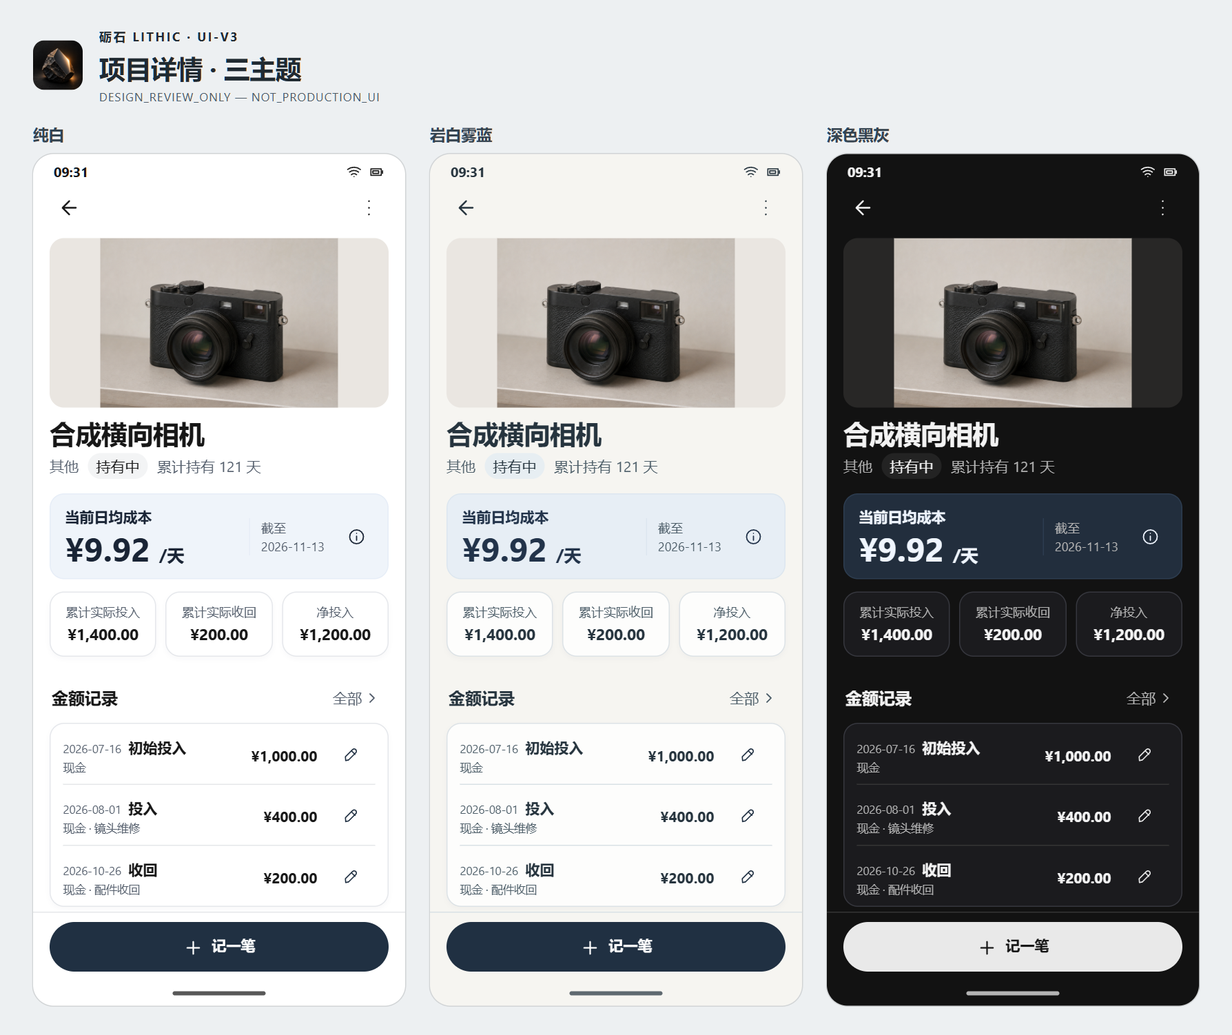
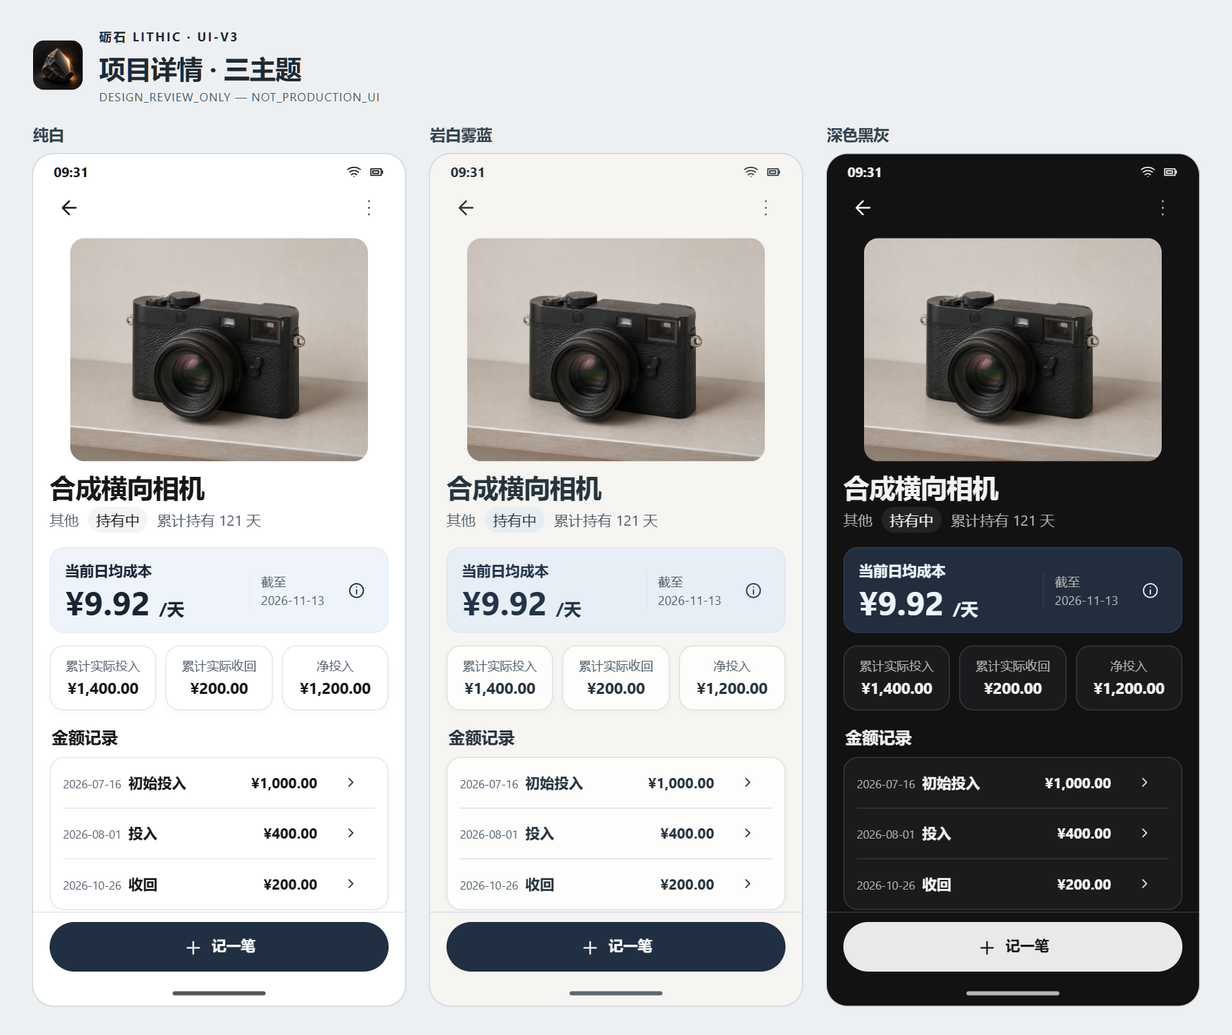
docs(design): close LITHIC detail design review notes

diff --git a/docs/design/lithic-ui-v3-detail-visual-refinement-02/boards/detail.js b/docs/design/lithic-ui-v3-detail-visual-refinement-02/boards/detail.js
@@ -10,7 +10,6 @@ const glyphs = {
   broken: 'M14 20H3V4h18v6M3 15l5-5 4 4m6-3 5 9H13zm0 4v2m0 2h.01',
   add: 'M12 5v14M5 12h14',
   chevron: 'M9 6l6 6-6 6',
-  edit: 'M13.5 5.5l5 5M4 20l4.5-1 11-11a2 2 0 0 0-5-5l-11 11L4 20Z',
 };
 const icon = name => '<svg aria-hidden="true" viewBox="0 0 24 24"><path d="' + glyphs[name] + '"/></svg>';
 const iconButton = (name, label) => '<button class="icon-button" aria-label="' + label + '">' + icon(name) + '</button>';
@@ -36,7 +35,7 @@ const photoCopy = {
   broken: ['broken', '封面暂不可用'],
 };
 function cover(status) {
-  if (status === 'normal') return '<div class="cover">' + camera + '</div>';
+  if (status === 'normal') return '<button class="cover cover-ready" data-cover-preview aria-label="查看完整封面">' + camera + '</button>';
   const [shape, label] = photoCopy[status];
   return '<div class="cover' + (status === 'empty' ? ' compact' : '') + '"><span class="placeholder">' +
     icon(shape) + (label ? '<span class="small">' + label + '</span>' : '') + '</span></div>';
@@ -56,14 +55,20 @@ function fact(label, value) {
   return '<div class="fact"><span class="muted">' + label + '</span>' + cash(value) + '</div>';
 }
 function event(when, label, value, detail, action) {
-  return '<article class="record"><div class="record-title"><div><span class="date">' + date(when) +
-    '</span><b>' + label + '</b><p class="muted small">' + detail + '</p></div>' +
-    cash(value) + (action ? '<button class="icon-button row-control" aria-label="' + action + ' · ' + when + '">' +
-      icon('edit') + '</button>' : '') + '</div></article>';
+  const basis = detail.startsWith('非现金折抵') ? '非现金折抵' : '现金';
+  const note = detail === basis ? '' : detail.slice(basis.length + 3);
+  const content = '<p>发生日期 ' + date(when) + '</p><p>' + label + '</p>' +
+    cash(value) + '<p>' + basis + '</p>' + (note ? '<p>' + note + '</p>' : '') +
+    '<div class="preview-actions"><span>' + action + '</span></div>';
+  return '<article class="record project-record"><div class="record-title"><div><span class="date">' + date(when) +
+    '</span><b>' + label + '</b>' + (basis === '非现金折抵' ? '<p class="muted small">' + basis + '</p>' : '') +
+    '</div>' + cash(value) + '<button class="icon-button row-control" data-event-details aria-label="查看金额记录与操作 · ' +
+    when + ' · ' + label + '">' + icon('chevron') + '</button><template>' + content + '</template></div></article>';
 }
-function recordsCard(title, records, showAll = false) {
-  const all = showAll ? '<button class="record-all" data-all-records aria-label="查看全部金额记录">全部' +
-    icon('chevron') + '</button>' : '';
+function recordsCard(title, records, {expandable = false, expanded = false} = {}) {
+  const all = expandable ? '<button class="record-all" data-all-records aria-expanded="' + expanded +
+    '" aria-label="' + (expanded ? '收起金额记录' : '查看全部金额记录') + '">' +
+    (expanded ? '收起' : '全部') + icon('chevron') + '</button>' : '';
   return '<section class="record-group"><div class="record-heading"><h3>' + title + '</h3>' +
     all + '</div><div class="group-card">' + records + '</div></section>';
 }
@@ -78,15 +83,20 @@ function project(options) {
     state(ended ? '已结束' : '持有中') + '<span>累计持有 ' + days + '</span></p>' +
     (photo === 'empty' && !read ? '<div class="media-actions">' + btn('添加照片') + '</div>' :
       mediaActions ? '<div class="media-actions">' + btn('更换照片') + btn('取消封面显示') + '</div>' : '') + '</section>';
-  let records = '';
-  if (empty) records = '<p class="muted">没有金额记录</p>';
-  else if (zero) records = event('2026-07-16', '初始投入', '0.00', '现金', '纠正这条记录');
-  else if (long) records = event('2026-11-13', '初始投入', '9,999,999,999.99', '现金', '纠正这条记录');
-  else records = event('2026-07-16', '初始投入', linked ? '700.00' : '1,000.00', '现金', linked ? '修改关联说明' : '纠正这条记录') +
-    (linked ? event('2026-07-16', '投入', '300.00', '非现金折抵 · 以旧换新关联事实，金额和日期不能单独修改。', '修改关联说明') : '') +
-    event('2026-08-01', '投入', '400.00', '现金 · 镜头维修', '纠正这条记录') +
-    event('2026-10-26', '收回', negative ? '1,800.00' : '200.00', '现金 · 配件收回', '纠正这条记录') +
-    (ended ? event('2026-11-10', '收回', '250.00', '现金 · 结束后实际结算', '纠正这条记录') : '');
+  const rows = [];
+  if (zero) rows.push(event('2026-07-16', '初始投入', '0.00', '现金', '纠正这条记录'));
+  else if (long) rows.push(event('2026-11-13', '初始投入', '9,999,999,999.99', '现金', '纠正这条记录'));
+  else if (!empty) {
+    rows.push(event('2026-07-16', '初始投入', linked ? '700.00' : '1,000.00', '现金', linked ? '修改关联说明' : '纠正这条记录'));
+    if (linked) rows.push(event('2026-07-16', '投入', '300.00', '非现金折抵 · 以旧换新关联事实，金额和日期不能单独修改。', '修改关联说明'));
+    rows.push(event('2026-08-01', '投入', '400.00', '现金 · 镜头维修', '纠正这条记录'),
+      event('2026-10-26', '收回', negative ? '1,800.00' : '200.00', '现金 · 配件收回', '纠正这条记录'));
+    if (ended) rows.push(event('2026-11-10', '收回', '250.00', '现金 · 结束后实际结算', '纠正这条记录'));
+  }
+  const limit = 3;
+  const expanded = options.expanded === true;
+  const records = rows.map((row, index) => index < limit ? row : row.replace('<article ', '<article data-extra-record ' +
+    (expanded ? '' : 'hidden '))).join('') || '<p class="muted">没有金额记录</p>';
   return (read === 'stale' ? notice('暂时无法刷新', '以下为上次读取记录。', true) : '') + identity +
     hero(ended ? '截至观察日的日均成本' : '当前日均成本', shownRate,
       empty ? '' : '结果截至 ' + visibleDate, options) +
@@ -95,7 +105,7 @@ function project(options) {
       fact(linked ? '累计投入（含非现金折抵）' : '累计实际投入', long ? '9,999,999,999.99' : zero ? '0.00' : '1,400.00') +
       fact(linked ? '累计收回（含非现金折抵）' : '累计实际收回', long ? '0.00' : ended ? '450.00' : negative ? '1,800.00' : zero ? '0.00' : '200.00') +
       fact('净投入', long ? '9,999,999,999.99' : ended ? '950.00' : negative ? '−400.00' : zero ? '0.00' : '1,200.00') + '</div>')) +
-    recordsCard('金额记录', records, !empty) +
+    recordsCard('金额记录', records, {expandable: rows.length > limit, expanded}) +
     sec('资料与历史', line('开始拥有', date(long ? '2026-11-13' : '2026-07-16')) +
       (ended ? line('已记录结束日期', date('2026-11-02')) + line('结束原因', '转交闲置设备') : '') +
       (linked ? '<p class="muted">有关联换新，金额与日期不能单独修改。</p>' : '') + btn('查看成本历史'));
@@ -158,13 +168,13 @@ const s = (label, props = {}) => ({label, entity: 'subscription', ...props});
 const pair = (width, scale) => [p('项目 · ' + width + 'dp · ' + scale * 100 + '%', {width, scale}), s('订阅 · ' + width + 'dp · ' + scale * 100 + '%', {width, scale})];
 const themes = [['纯白', 'white'], ['岩白雾蓝', 'stone'], ['深色黑灰', 'dark']];
 const boards = {
-  pair: ['项目与订阅 · 纯白详情', 2, pair(360, 1)],
+  pair: ['项目与订阅 · 最终纯白候选', 2, pair(360, 1)],
   'project-themes': ['项目详情 · 三主题', 3, themes.map(([label, theme]) => p(label, {theme}))],
   'subscription-themes': ['订阅详情 · 三主题', 3, themes.map(([label, theme]) => s(label, {theme}))],
   'width-400': ['400dp · 常规字号', 2, pair(400, 1)],
   'font-200': ['200% 字体 · 360 与 400', 4, [...pair(360, 2), ...pair(400, 2)]],
-  'history': ['记录与付款事实 · 向下滚动', 2, [p('项目 · 折抵与纠错', {linked: true, pos: 480}),
-    s('订阅 · 付款与实付汇总', {pos: 430})]],
+  'history': ['同一金额列表 · 展开前后', 2, [p('超过三笔 · 默认预览', {linked: true, pos: 560}),
+    p('点「全部」 · 就地展开', {linked: true, expanded: true, pos: 560})]],
   'states': ['关键状态', 3, [p('项目 · 封面不可用', {photo: 'broken'}), p('项目 · 旧快照', {read: 'stale', photo: 'empty'}),
     s('订阅 · 已停止', {ended: true}), p('项目 · 长名称与大金额', {long: true, scale: 2, photo: 'empty', pos: 60}),
     s('订阅 · 付款历史旧页', {historyStale: true, pos: 400}), s('订阅 · 长名称与大金额', {long: true, scale: 2, pos: 20}), s('订阅 · 无快照', {read: 'failed'})]],
@@ -189,20 +199,24 @@ modal.className = 'preview-dialog';
 modal.setAttribute('aria-labelledby', 'preview-title');
 root.append(modal);
 root.addEventListener('click', event => {
-  const trigger = event.target.closest('button[data-payment-details], button[data-all-records]');
+  const trigger = event.target.closest('button[data-payment-details], button[data-all-records], button[data-event-details], button[data-cover-preview]');
   if (!trigger) return;
-  const all = trigger.hasAttribute('data-all-records');
-  const source = all ? trigger.closest('.record-group').querySelector('.group-card') : trigger.nextElementSibling;
-  const content = all ? source.cloneNode(true) : source.content.cloneNode(true);
-  if (all) {
-    content.className = 'all-record-list';
-    content.querySelectorAll('button').forEach(button => button.remove());
+  if (trigger.hasAttribute('data-all-records')) {
+    const expanded = trigger.getAttribute('aria-expanded') !== 'true';
+    trigger.closest('.record-group').querySelectorAll('[data-extra-record]').forEach(row => { row.hidden = !expanded; });
+    trigger.setAttribute('aria-expanded', String(expanded));
+    trigger.setAttribute('aria-label', expanded ? '收起金额记录' : '查看全部金额记录');
+    trigger.firstChild.nodeValue = expanded ? '收起' : '全部';
+    return;
   }
+  const photo = trigger.hasAttribute('data-cover-preview');
+  const content = photo ? trigger.querySelector('img').cloneNode(true) : trigger.nextElementSibling.content.cloneNode(true);
+  modal.classList.toggle('photo-view', photo);
   const frameStyle = getComputedStyle(trigger.closest('.screen'));
   for (const property of ['--bg', '--ink', '--secondary', '--card-line', '--danger', '--scale']) {
     modal.style.setProperty(property, frameStyle.getPropertyValue(property));
   }
-  modal.innerHTML = '<h2 id="preview-title">' + (all ? '全部金额记录' : '付款详情') +
+  modal.innerHTML = '<h2 id="preview-title">' + (photo ? '完整封面' : trigger.hasAttribute('data-event-details') ? '金额记录' : '付款详情') +
     '</h2><div class="preview-data"></div><form method="dialog"><button>关闭</button></form>';
   modal.querySelector('.preview-data').append(content);
   modal.showModal();

diff --git a/docs/design/lithic-ui-v3-detail-visual-refinement-02/boards/detail.css b/docs/design/lithic-ui-v3-detail-visual-refinement-02/boards/detail.css
@@ -107,6 +107,7 @@ button:disabled { color: var(--secondary); }
   --mist: #eff4fa; --mist-line: #e6edf7; --card: #fff; --card-line: #e5e7eb;
   --shadow: 0 2px 5px #18253708; --hero-ink: #192435;
   --action: #203042; --secondary: #545e6c; --radius: 14px;
+  --cover-height: clamp(216px, calc(var(--width) * .6), 232px);
 }
 .screen.stone {
   --mist: #e7eef5; --mist-line: #dce6ef; --card: #fdfdfc; --card-line: #dce2e6;
@@ -132,11 +133,13 @@ button:disabled { color: var(--secondary); }
 .service .tile { width: 52px; height: 52px; }
 .service .tile svg { width: 22px; height: 22px; }
 .cover:not(.compact) {
-  width: 100%; max-height: 172px; aspect-ratio: 2 / 1;
-  border-radius: var(--radius); background: #eae6e1; margin: 0;
+  width: min(100%, calc(var(--cover-height) * 4 / 3));
+  aspect-ratio: 4 / 3;
+  border-radius: var(--radius); background: var(--tint); margin-inline: auto;
 }
-.dark .cover:not(.compact) { background: #282726; }
-.cover:not(.compact) img { display: block; min-width: 0; height: 100%; max-height: 172px; object-fit: contain; }
+.cover.cover-ready { padding: 0; cursor: pointer; }
+.cover.cover-ready img { display: block; min-width: 0; height: 100%; object-fit: contain; }
+.big .cover:not(.compact) { --cover-height: 180px; }
 .hero {
   margin: 14px 0 12px; padding: 10px 6px 10px 14px; min-height: 83px;
   border-radius: var(--radius); background: var(--mist); border: 1px solid var(--mist-line);
@@ -208,7 +211,13 @@ button:disabled { color: var(--secondary); }
   padding: 18px; font-size: calc(14px * var(--scale));
 }
 .preview-dialog .small, .preview-dialog .date { font-size: calc(12px * var(--scale)); }
-.all-record-list .record-title { display: flex; align-items: baseline; }
+.photo-view { width: min(calc(100vw - 32px), 860px); }
+.photo-view img { display: block; width: 100%; max-height: 68dvh; object-fit: contain; }
+.project-record { padding-block: 0; }
+.record-group:has(.project-record):not(:has(.record-all)) .record-heading { min-height: 0; margin-bottom: 8px; }
+.project-record [data-event-details], .record-all { cursor: pointer; }
+.record-all[aria-expanded="true"] svg { transform: rotate(-90deg); }
+.group-card .record:has(+ [hidden]) { border-bottom: 0; }
 .preview-dialog::backdrop { background: #0006; }
 .preview-dialog h2, .preview-dialog p { margin: 0 0 6px; }
 .preview-dialog form { text-align: end; }

diff --git a/docs/design/lithic-ui-v3-detail-visual-refinement-02/DESIGN_FREEZE_03.md b/docs/design/lithic-ui-v3-detail-visual-refinement-02/DESIGN_FREEZE_03.md
@@ -1,0 +1,52 @@
+# 砺石 · 详情页最终设计候选
+
+**LITHIC_UI_V3_DETAIL_DESIGN_FREEZE_03 — READY_FOR_FINAL_APPROVAL**
+
+**DESIGN_REVIEW_ONLY — NOT_PRODUCTION_UI**
+
+固定基线为 `6289d9400a19ac28e6a099a460d08b461aa6e274`。延续已审的双屏结构、三主题、浅雾蓝成本卡、项目三张财务卡、订阅当前及下一期套餐、付款历史和深蓝黑底部按钮。[用户选中的双屏原图](boards/reference/user-selected-pair.png) · [调整前的精修 02 双屏图](https://github.com/cc7279694-debug/property/blob/6289d9400a19ac28e6a099a460d08b461aa6e274/docs/design/lithic-ui-v3-detail-visual-refinement-02/boards/renders/pair.png)
+
+[纯白项目详情](boards/renders/project-white.png) · [纯白订阅详情](boards/renders/subscription-white.png) · [纯白双屏对照](boards/renders/pair.png) · [项目三主题](boards/renders/project-themes.png) · [订阅三主题](boards/renders/subscription-themes.png) · [模拟 200%](boards/renders/font-200.png)
+
+![项目与订阅纯白最终候选](boards/renders/pair.png)
+
+## 三处调整
+
+| 项目 | 精修 02 | 最终候选与取舍 |
+| --- | --- | --- |
+| 项目封面 | 宽框以 Fit 显示样本，360 和 400 宽度分别为 328×172、368×172，4:3 照片两侧各有大块底色。 | 使用居中 4:3 框，约 288×216、309×232。照片在框内完整显示，其他比例仍保留必要边距。看清相机细节需要多用一点首屏高度，成本仍在首屏。模拟 200% 时框收为 240×180，把空间留给文字。已就绪的封面才可点开完整查看。画板复用同一张照片。Android 候选复用当前已验证的封面位图，保持其完整画幅、字节及存储协议。 |
+| 金额记录 | 每条默认显示现金或折抵口径、说明、金额和纠错按钮。 | 默认行显示发生日期、类型、完整金额与查看入口。非现金折抵继续在行内明确标出。现金口径、备注、关联限制及原纠错动作集中在单笔详情。多一次点击，换取默认列表可直接扫读日期和金额。大字和长金额允许换行。 |
+| 「全部」 | 浏览器使用只读弹层显示完整列表，Android 方式待定。 | 按现有排序先显示前三条，超过三条才显示「全部」。点按在同一列表就地显示剩余记录，标题按钮变为「收起」，焦点留在该处。单笔查看使用自己的短弹层。系统返回关闭当前弹层或执行原详情返回。原「查看成本历史」仍进入独立的成本历史页面。 |
+
+[四笔合成事件的展开前后](boards/renders/history.png) · [其他状态](boards/renders/states.png)
+
+观察日仍为 2026-11-13。相机 121 天，投入 ¥1,400.00、收回 ¥200.00、净投入 ¥1,200.00，日均 ¥9.92。展开样本把初始 ¥1,000.00 拆为同日现金 ¥700.00 与旧物折抵 ¥300.00，汇总相同。四笔按实际发生日升序、同日按既有 ID 顺序。订阅当前月付 ¥59.40，与已付款但未生效的 ¥89.40 分开。累计实付 ¥148.80、历史平均 ¥2.48/天、当前标准日均价 ¥1.98/天。主图重新导出后，纯白订阅图与基线逐字节相同。[样本业务依据](../lithic-ui-v3-03-details/BUSINESS_FACTS_AND_GUARDS.md)
+
+## Android 实施组件
+
+| 范围 | 复用与接线 |
+| --- | --- |
+| 项目页与成本 | 延续 `ProjectDetailScreen` 的顶栏、单一 `LazyColumn` 与独立固定区，沿用 `ProjectCostSummary`、`ProjectSecondaryTotals`、`MoneyMetric`、`C5InformationButton` 和现有主题。纵排大字卡片，保持金额完整的可访问语义和读取入口。 |
+| 封面 | 项目详情局部使用 `RecordCover` 和 `ContentScale.Fit`，列表及其他调用方沿用原参数。仅当前项目、当前代、当前封面已取得可用结果时开放只读 `Dialog`。复用已验证位图及原有读取预算，切换身份、图片引用或状态即撤销显示资格。关闭回到封面，明确关闭按钮需至少 48dp。 |
+| 金额记录 | 在原有 `itemsIndexed` 中按 `event.id` 保持行键稳定。前三条是同一批已加载事实的切片，展开仍使用原列表与原数据。展开状态按当前项目与代隔离，身份切换重置。无额外查询、路线或写入。单笔详情复用原事实字段，沿原更正回调分派。含现金、非现金折抵、事件角色、备注以及关联提示。 |
+| 订阅 | 留作后续独立实施。`SubscriptionDetailScreen` 原历史列表、付款日期入口、分页、管理面板和写入守卫全部保留。 |
+
+## 业务操作与 TestTag 清单
+
+表内 `<id>` 代表原实体 ID。已有标签按事实或动作所在节点保留。若节点移入单笔明细，测试先展开记录或打开单笔，再断言原标签和保护条件。
+
+| 路径 | 现有操作或事实 | 应保留的 TestTag |
+| --- | --- | --- |
+| 项目详情与读状态 | 返回、更多、名称、分类、持有期、日均及说明、投入收回净额、旧快照、重试 | `project-detail-screen`、`project-detail-content`、`project-detail-back`、`project-detail-more`、`project-detail-menu`、`project-detail-name`、`project-detail-category`、`project-detail-status`、`project-ownership-period`、`project-detail-held-days`、`project-core-metrics`、`project-financial-totals`、`project-detail-{daily,metric-information,outlay,recovery,net,error,stale,retry}` |
+| 封面 | 无图、读取中、失效；原有添加、更换、取消显示和不可用提示 | `project-identity-symbol`、`project-detail-cover`、`project-detail-cover-expanded`、`project-detail-cover-unavailable`、`record-cover-{image,loading,unavailable}`、`project-{add,replace,remove}-photo`、`project-photo-unavailable` |
+| 金额 | 查看日期、类型、口径、金额；记投入或收回；只有明确点纠错才发起操作。`END_SETTLEMENT` 继续走 `onUpdateEnd`，普通记录走 `onCorrectMoney(id)`，以旧换新关联项仍只允许修改说明 | `project-event-<id>`、`project-event-{date,basis,type,amount}-<id>`、`project-correct-event-<id>`、`project-record-money`、`project-money-sheet`、`project-money-sheet-close`、`project-add-outlay`、`project-add-recovery` |
+| 项目管理 | 编辑、结束及修正结束、成本历史、替换比较、以旧换新、永久删除资格与确认。维护未保存、待核对写入、关联保护和原返回来源 | `project-edit`、`project-end`、`project-update-end`、`project-replacement`、`project-trade-in`、`project-cost-history-menu`、`project-cost-history`、`project-lifecycle-explanation`、`project-trade-in-protection`、`project-secondary-management`、`project-detail-note`、`project-delete`、`project-delete-{dialog,confirm,cancel,retry-read}` |
+| 订阅详情及管理 | 当前套餐与历史平均、实际付款与覆盖区间、纠错或删除付款、分页与读失败、真实续费、暂停／恢复／停止／重开及已安排停止管理 | `subscription-detail-{screen,content,back,open-management,close-management,current-plan,current-rate,historical-average,total-paid,history-error,history-retry,load-more-history,renewal,resume,reopen,pause,stop,scheduled-stop,correct-stop,cancel-stop}`、`subscription-state-correct-<id>`、`subscription-renewal-<id>`、`subscription-renewal-{paid-on,amount,future,date-information,actions,correct,delete}-<id>`、`subscription-price-history` |
+
+可新增 `project-money-all`、`project-event-details-<id>` 和 `project-cover-full-view` 来验证三个只读入口。它们是后续实施建议。[项目页面](../../../app/src/main/java/com/cooper/lithic/feature/project/ProjectDetailScreen.kt) · [操作资格](../../../app/src/main/java/com/cooper/lithic/feature/project/ProjectDetailPresentation.kt) · [图片组件](../../../app/src/main/java/com/cooper/lithic/feature/media/CoverPreviews.kt) · [订阅页面](../../../app/src/main/java/com/cooper/lithic/feature/subscription/SubscriptionDetailScreen.kt)
+
+## 验证与下一批范围
+
+- Chromium 157 共核对 8 个规格组合，覆盖两页各自的 360／400、100%／模拟 200%。布局检查未发现横向溢出，参与检查的交互目标至少 48 CSS px，底部按钮位于独立区域。另核对封面查看使用同一个 1448×1086 图像、单笔明细保留现金与折抵事实及纠错入口、「全部」3→4→3 且只存在一组列表、订阅付款日期弹层。订阅主图与原稿字节一致。[浏览器结果](boards/layout-checks.json)
+- Android 实际运行 **NOT_RUN**。系统 200% 字体、TalkBack、原生返回与焦点、图片加载或失效、Compose 滚动及动效留给实施后验证。
+- 获得授权后，下一批仅实施项目详情的封面、三卡、金额记录及就地展开。修改范围以 `ProjectDetailScreen.kt` 为主，若需从 `RecordCover` 暴露已验证的只读位图状态，限局部可选参数并保护其他调用方。复跑 `ProjectScreensTest`、`C2ProjectDetailSemanticsTest`、`C2R1ProjectDetailLayoutTest`、`ProjectNavigationGuardTest`、`CoverPreviewsTest` 的受影响案例。补验长金额、横竖图与不可用、3→4→3、零写入、系统返回和联动纠错，保留业务与安全断言。订阅生产界面、导航路由、成本引擎、Room、备份与图片协议继续使用当前版本。

diff --git a/docs/CURRENT_STATE.md b/docs/CURRENT_STATE.md
@@ -1,8 +1,10 @@
 # 当前项目状态
 
-状态日期：2026-11-13（Asia/Shanghai）。本文件是唯一实时状态；原件归档和 checkpoints 只记录历史。
+状态日期：2026-11-14（Asia/Shanghai）。本文件是唯一实时状态；原件归档和 checkpoints 只记录历史。
 
 ## Current Stage
+
+- **LITHIC_UI_V3_DETAIL_DESIGN_FREEZE_03 — READY_FOR_FINAL_APPROVAL（2026-11-14）**。收口项目封面、单笔金额明细及同列表「全部／收起」。已导出两张纯白主图，Chrome 的 360／400 和模拟 200% 布局与只读交互通过，Android NOT_RUN。等待用户视觉确认及 ChatGPT 独立审查，生产实施未授权。见[最终设计候选](design/lithic-ui-v3-detail-visual-refinement-02/DESIGN_FREEZE_03.md)。
 
 - **LITHIC_UI_V3_DETAIL_VISUAL_REFINEMENT_02 — READY_FOR_DESIGN_REVIEW（2026-11-14）**。按双屏参考精修项目与订阅详情，交付纯白配对、三主题、模拟 200% 和状态画板。仅静态设计，详情 Android 实测 NOT_RUN，等待独立审查及用户确认。见[精修稿](design/lithic-ui-v3-detail-visual-refinement-02/REVIEW.md)。
 

diff --git a/docs/design/lithic-ui-v3-detail-visual-refinement-02/REVIEW.md b/docs/design/lithic-ui-v3-detail-visual-refinement-02/REVIEW.md
@@ -2,6 +2,8 @@
 
 **DESIGN_REVIEW_ONLY — NOT_PRODUCTION_UI**
 
+本页记录精修 02。原版画板见[固定提交](https://github.com/cc7279694-debug/property/tree/6289d9400a19ac28e6a099a460d08b461aa6e274/docs/design/lithic-ui-v3-detail-visual-refinement-02/boards)。本分支的更新画板与规格见[最终设计候选](DESIGN_FREEZE_03.md)。
+
 设计基线 `492d472a9b241b8b4238d34a60a0d7c45d087c45`。本轮用户直接附上的双屏图为首要视觉参考，原图已归档。此前对话中的精修样图仅供对照。已冻结首页作为按钮及主题参照，V3-03 提供业务事实和操作保护。[用户选中的双屏原图](boards/reference/user-selected-pair.png) · [链接对话](chatgpt-conversation://6af58492-72fc-83ee-bfd5-1097afc56c90) · [V3-03 业务事实与保护](../lithic-ui-v3-03-details/BUSINESS_FACTS_AND_GUARDS.md)
 
 ## 配对布局
